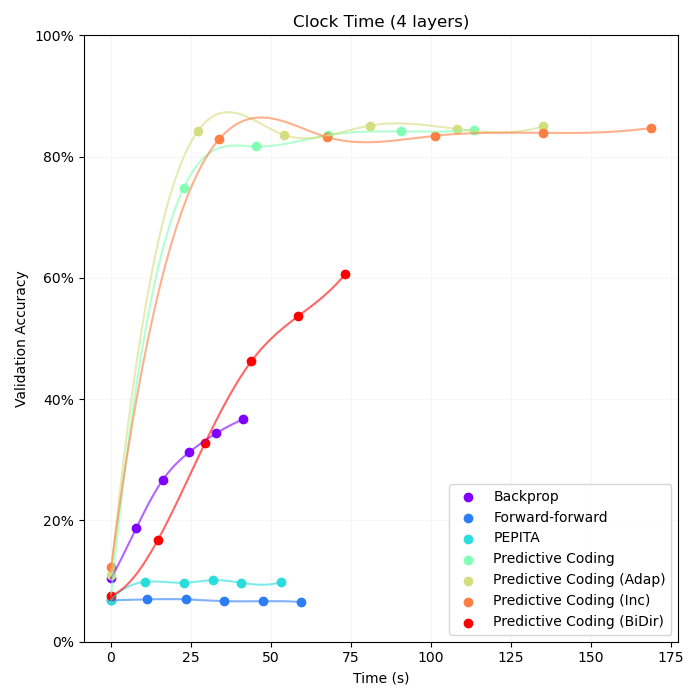
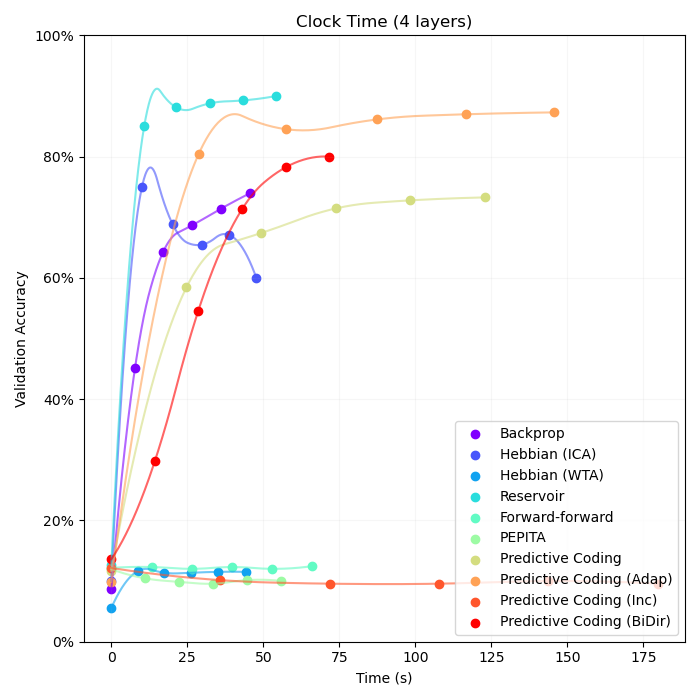
readme, figure, and hebbian learning updates

diff --git a/compare.py b/compare.py
@@ -4,6 +4,7 @@ import numpy as np
 import matplotlib.pyplot as plt
 from matplotlib.ticker import PercentFormatter
 from scipy.interpolate import make_interp_spline
+from backprop_alts.hebbian_learning import HebbianMLP
 from backprop_alts.reservoir import Reservoir, LinearReadout
 from backprop_alts.predictive_coding import BDPredictiveCoder, PCNet
 from backprop_alts.forwardforward import mnist_test_ff, PEPITA
@@ -25,7 +26,7 @@ class Baseline(torch.nn.Module):
                  out_dim,
                  dim_mult = 1,
                  n_layers = 3,
-                 activation = torch.nn.ReLU(),
+                 activation = torch.nn.LeakyReLU(),
                  optimizer = torch.optim.SGD,
                  lr = 0.01,
                  ):
@@ -39,20 +40,20 @@ class Baseline(torch.nn.Module):
         self.layers = torch.nn.ModuleList()
         for i in range(n_layers - 1):
             dim_mult = self.dim_mult[i]
-            self.layers.append(torch.nn.Linear(dim,
-                                               int(dim * dim_mult),
-                                               bias = False))
+            self.layers.append(torch.nn.Sequential(torch.nn.Linear(dim,
+                                                                   int(dim * dim_mult),
+                                                                   bias = True),
+                                activation))
             dim = int(dim * dim_mult)
 
-        self.layers.append(torch.nn.Linear(dim, out_dim, bias = False))
-        
-        self.activation = activation
+        self.layers.append(torch.nn.Linear(dim, out_dim, bias = True))
+
 
         self.optimizer = optimizer(self.parameters(), lr = lr)
 
     def forward(self, x):
         for layer in self.layers:
-            x = self.activation(layer(x))
+            x = layer(x)
         return x
     
     def train_step(self, x_in, y):
@@ -110,6 +111,21 @@ def mnist_comparisons(n_epochs,
                                             n_layers = layer_count),
                                    n_epochs = n_epochs)
         scores["Backprop"] = base
+
+        # test hebbian ica
+        _, _, _, hebb_ica = mnist_test(HebbianMLP(in_dim, out_dim, 
+                                              dim_mult = mult, 
+                                              n_layers = layer_count),
+                                   n_epochs = n_epochs)
+        scores["Hebbian (ICA)"] = hebb_ica
+
+        # test hebbian wta
+        _, _, _, hebb_wta = mnist_test(HebbianMLP(in_dim, out_dim, 
+                                              dim_mult = mult, 
+                                              n_layers = layer_count,
+                                              wta = True),
+                                   n_epochs = n_epochs)
+        scores["Hebbian (WTA)"] = hebb_wta
 
         #TODO : fix reservoir, need better input functionality for when in_dim > dim
         # test the reservoir

diff --git a/backprop_alts/hebbian_learning.py b/backprop_alts/hebbian_learning.py
@@ -60,6 +60,60 @@ def hebbian_pca(x, y, W):
     weight_update = (pre_post_correlation - weight_expectation) / batch_size
     return weight_update
 
+class HebbianMLP(torch.nn.Module):
+    def __init__(self,
+                 in_dim,
+                 out_dim,
+                 dim_mult = 1,
+                 n_layers = 3,
+                 activation = torch.nn.Tanh(),
+                 lr = 0.01,
+                 wta = False):
+        super().__init__()
+        self.in_dim = in_dim
+        self.out_dim = out_dim
+        if isinstance(dim_mult, int):
+            dim_mult = [dim_mult] * (n_layers - 1)
+        self.dim_mult = dim_mult
+        self.n_layers = n_layers
+        self.lr = lr
+        self.wta = wta
+
+        self.layers = torch.nn.ModuleList()
+        prev_dim = in_dim
+        for mult in dim_mult:
+            self.layers.append(torch.nn.Sequential(torch.nn.Linear(prev_dim, int(prev_dim * mult),
+                                                                   bias = False),
+                                              activation))
+            prev_dim = int(prev_dim * mult)
+
+        self.layers.append(torch.nn.Linear(prev_dim, out_dim))
+
+    def forward(self, x):
+        for layer in self.layers:
+            x = layer(x)
+        return x
+    
+    def train_step(self, x, y):
+        prev_x = x.clone()
+        y = y.float()
+        for i, layer in enumerate(self.layers):
+            x = layer(x)
+            if i == self.n_layers - 1:
+                error = y - x
+                # use the delta rule
+                dW = hebbian_pca(prev_x, y, layer.weight)
+                layer.weight += self.lr * dW
+            else:
+                if self.wta:
+                    dW = hebbian_wta(prev_x, x, layer[0].weight)
+                else:
+                    dW = hebbian_pca(prev_x, x, layer[0].weight)
+                layer[0].weight += self.lr * dW
+            prev_x = x.clone()
+        return [(error**2).mean().item()]
+
+
 class HebbianConv2d(torch.nn.Module):
     """
     Hebbian convolutional layer. This layer is implemented as a torch.nn.Conv2d
@@ -314,7 +368,7 @@ class GPSPLayer(torch.nn.Module):
         self.W = torch.nn.Parameter(torch.randn(latent_dim, x_dim + y_dim))
         # M is positive definite
         M = torch.randn(latent_dim, latent_dim)
-        self.M = torch.nn.Parameter(M * M.T)
+        self.M = torch.nn.Parameter(torch.abs(M))
 
     def _get_B(self, x, y = None):
         if self.task == "cca":
@@ -363,6 +417,7 @@ class GPSPLayer(torch.nn.Module):
         self.M += (self.forward_lr / self.backward_ratio) * dM
 
         return eta
+
 
 def simple_test_plots(weights, pca = False, scale_max = 5, n_clusters = 3, centers = None, points = None):
     # plot weights and centers

diff --git a/backprop_alts/forwardforward.py b/backprop_alts/forwardforward.py
@@ -13,7 +13,7 @@ class FFBlock(torch.nn.Module):
     def __init__(self,
                  in_dim,
                  out_dim,
-                 activation = torch.nn.ReLU(),
+                 activation = torch.nn.LeakyReLU(),
                  theta = 0,
                  bias = False):
         super().__init__()
@@ -45,7 +45,7 @@ class FFNet(torch.nn.Module):
                  n_layers = 3,
                  dim_mult = 1,
                  out_dim = None,
-                 activation = torch.nn.ReLU(),
+                 activation = torch.nn.LeakyReLU(),
                  theta = 0,
                  bias = False,
                  n_labels = 10):
@@ -153,7 +153,7 @@ def mnist_test_ff(in_dim,
                   dim_mult = 0.75, 
                   threshold = 10, 
                   batch_size = 256, 
-                  lr = 0.1, 
+                  lr = 0.01, 
                   easy = False,
                   collaborative = True):
     device = torch.device("cuda" if torch.cuda.is_available() else "cpu")
@@ -220,7 +220,7 @@ def mnist_test_ff(in_dim,
 
     return accs, errors, y, details
 
-def _collaborative_ff_train(net, data, device, n_layers, lr = 0.1, easy = False, batch_size = 256):
+def _collaborative_ff_train(net, data, device, n_layers, lr = 0.01, easy = False, batch_size = 256):
     """
     Training based on :
     https://arxiv.org/abs/2305.12393)
@@ -247,7 +247,7 @@ def _collaborative_ff_train(net, data, device, n_layers, lr = 0.1, easy = False,
             net.train_step(x, y, layer_i, lr = lr, gamma = gamma)
     return time() - time_start, i * batch_size
 
-def _noncollaborative_ff_train(net, data, device, n_layers, lr = 0.1, easy = False, 
+def _noncollaborative_ff_train(net, data, device, n_layers, lr = 0.01, easy = False, 
                                batch_size = 256):
     """
     Standard training, where each layer is trained independently.
@@ -282,7 +282,7 @@ class PEPITA(torch.nn.Module):
                  n_layers = 3,
                  dim_mult = 1,
                  out_dim = None,
-                 activation = torch.nn.ReLU()):
+                 activation = torch.nn.LeakyReLU()):
         super().__init__()
         self.in_dim = in_dim
         self.n_layers = n_layers
@@ -315,7 +315,7 @@ class PEPITA(torch.nn.Module):
             return x, intermediate
         return x
     
-    def train_step(self, x, y, lr = 0.1):
+    def train_step(self, x, y, lr = 0.01):
         out, activations = self.forward(x, return_intermediate = True)
         error = out - y
         prev_error = self.back_layer(error)

diff --git a/backprop_alts/predictive_coding.py b/backprop_alts/predictive_coding.py
@@ -306,7 +306,7 @@ class BDLNet(torch.nn.Module):
                  out_dim,
                  dim_mult = 1,
                  n_layers = 3,
-                 activation = torch.nn.ReLU(),
+                 activation = torch.nn.Tanh(),
                  bias = False):
         """
         A bidirectional learning network with forward, backward, and lateral layers that 
@@ -388,7 +388,7 @@ class PCNet(torch.nn.Module):
                  out_dim,
                  dim_mult = 1,
                  n_layers = 3,
-                 activation = torch.nn.Tanh(),
+                 activation = torch.nn.LeakyReLU(),
                  adaptive_relaxation = False,
                  ipc = True,
                  lr = 0.01,
@@ -437,6 +437,11 @@ class PCNet(torch.nn.Module):
         elif isinstance(activation, torch.nn.Tanh):
             tanh = torch.nn.functional.tanh
             activation_derivative = lambda x: 1 - tanh(x) ** 2
+        elif isinstance(activation, torch.nn.ReLU):
+            activation_derivative = lambda x: (x > 0).float()
+        elif isinstance(activation, torch.nn.LeakyReLU):
+            alpha = activation.negative_slope
+            activation_derivative = lambda x: (x > 0).float() + alpha * (x <= 0).float()
         else:
             raise NotImplementedError(f"Activation {activation} not implemented")
         return activation, activation_derivative

diff --git a/README.md b/README.md
@@ -20,19 +20,23 @@ In general, the rules are implemented and tested on MNIST.
 
 All of the fully implemented algorithms are compared by their sample efficiency (how accurate are they with N samples?) and clock time efficiency (how accurate are they with X seconds of train time?). Architectures were identical as possible, however there are some caveats to that:
 
-* Hebbian learning requires odd activation functions so Tanh was used, while backprop-based training worked very poorly with Tanh, so in fairness it was replace with ReLU
-* The bidirectional version of predictive coding has forward and backward layers, so it technically has double the parameters in training, however a inference forward pass still uses the same number of parameters
-* Reservoir computing involves a blob of neurons, I did some arithmetic so the blobs have equal synapse/parameter count as the layered networks
+* Hebbian learning requires odd activation functions so Tanh was used, while backprop-based training worked very poorly with Tanh, so in fairness it was replace with LeakyReLU. For non-Hebbian, non-backprop networks, LeakyReLU was used.
+* The bidirectional version of predictive coding has forward and backward layers, so it technically has double the parameters in training, however a inference forward pass still uses the same number of parameters.
+* Most networks don't have a bias term. Backprop does since it functioned poorly otherwise.
+* Reservoir computing involves a blob of neurons, I have a calculator that does some arithmetic so the blobs have equal synapse/parameter count as the layered networks.
+* Learning rates are usually 0.01, but some networks (e.g. incremental predictive coding [iPC]) require a lower learning rate. Note that iPC takes many more weight adaption steps per training example so this is balanced out.
 
-The following plot shows sample efficiency:
+The following plot shows sample efficiency for four layer networks:
 
-![Sample Efficiency](plots/Sample%20Efficiency.png)
+![Sample Efficiency](plots/Sample%20Efficiency(4%20layers).png)
+
+Further plots for different layer counts are available in the plots folder.
 
 Backprop and the reservoir computer required optimizers, SGD was used with learning rate 0.01. Note that forward-forward does not function well with continuous (i.e. in [0, 1] values). The paper uses binary pixel values, which I did not do for comparison with the other backpropagation alternatives.
 
 Sample efficiency is not the whole story: predictive coding relies on a slow equilbration phase involving hundreds of forward passes per sample. For this reason, time taken is also important:
 
-![Clock Time](plots/Clock%20Time.png)
+![Clock Time](plots/Clock%20Time%20(4%20layers).png)
 
 
 ## TODOs
